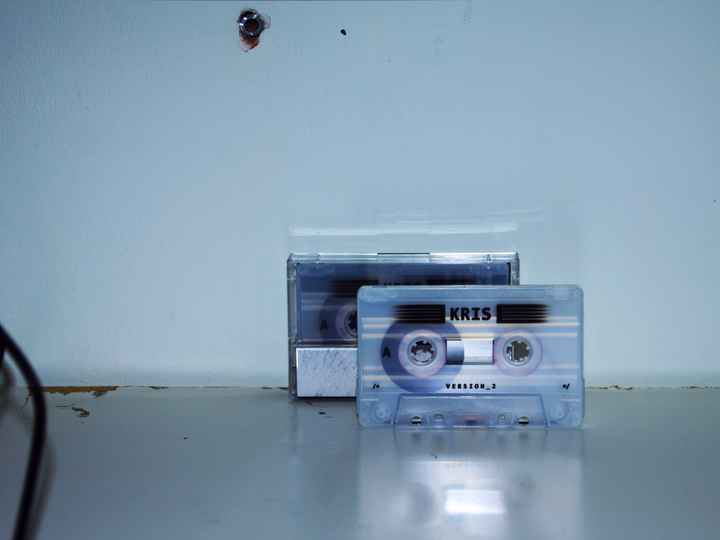
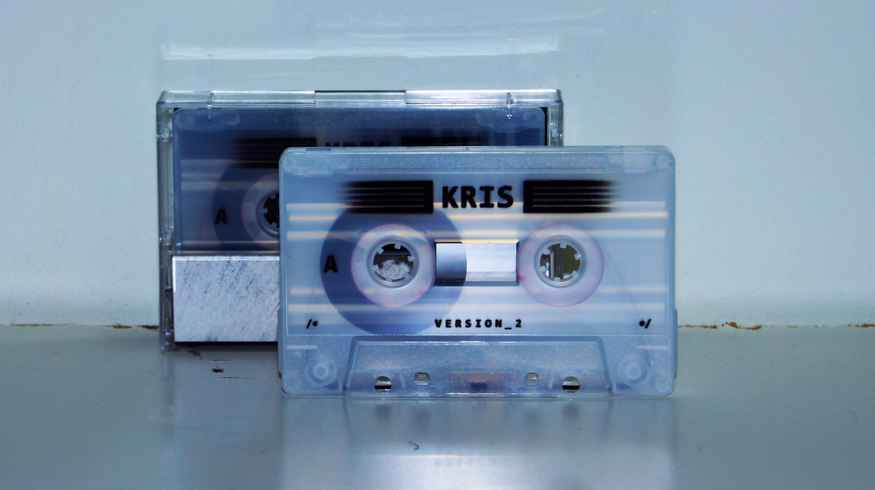
cassette

diff --git a/kris.html b/kris.html
@@ -38,7 +38,7 @@ layout: default
   </p>
 
   <div class="media t-hackcss-media">
-    <img src="/cassette.jpg" style="width: 100%;height:50%;object-fit: cover;" >
+    <img src="/cassette.jpg" style="width: 100%;object-fit: cover;" >
   </div>
 
   <hr/>
